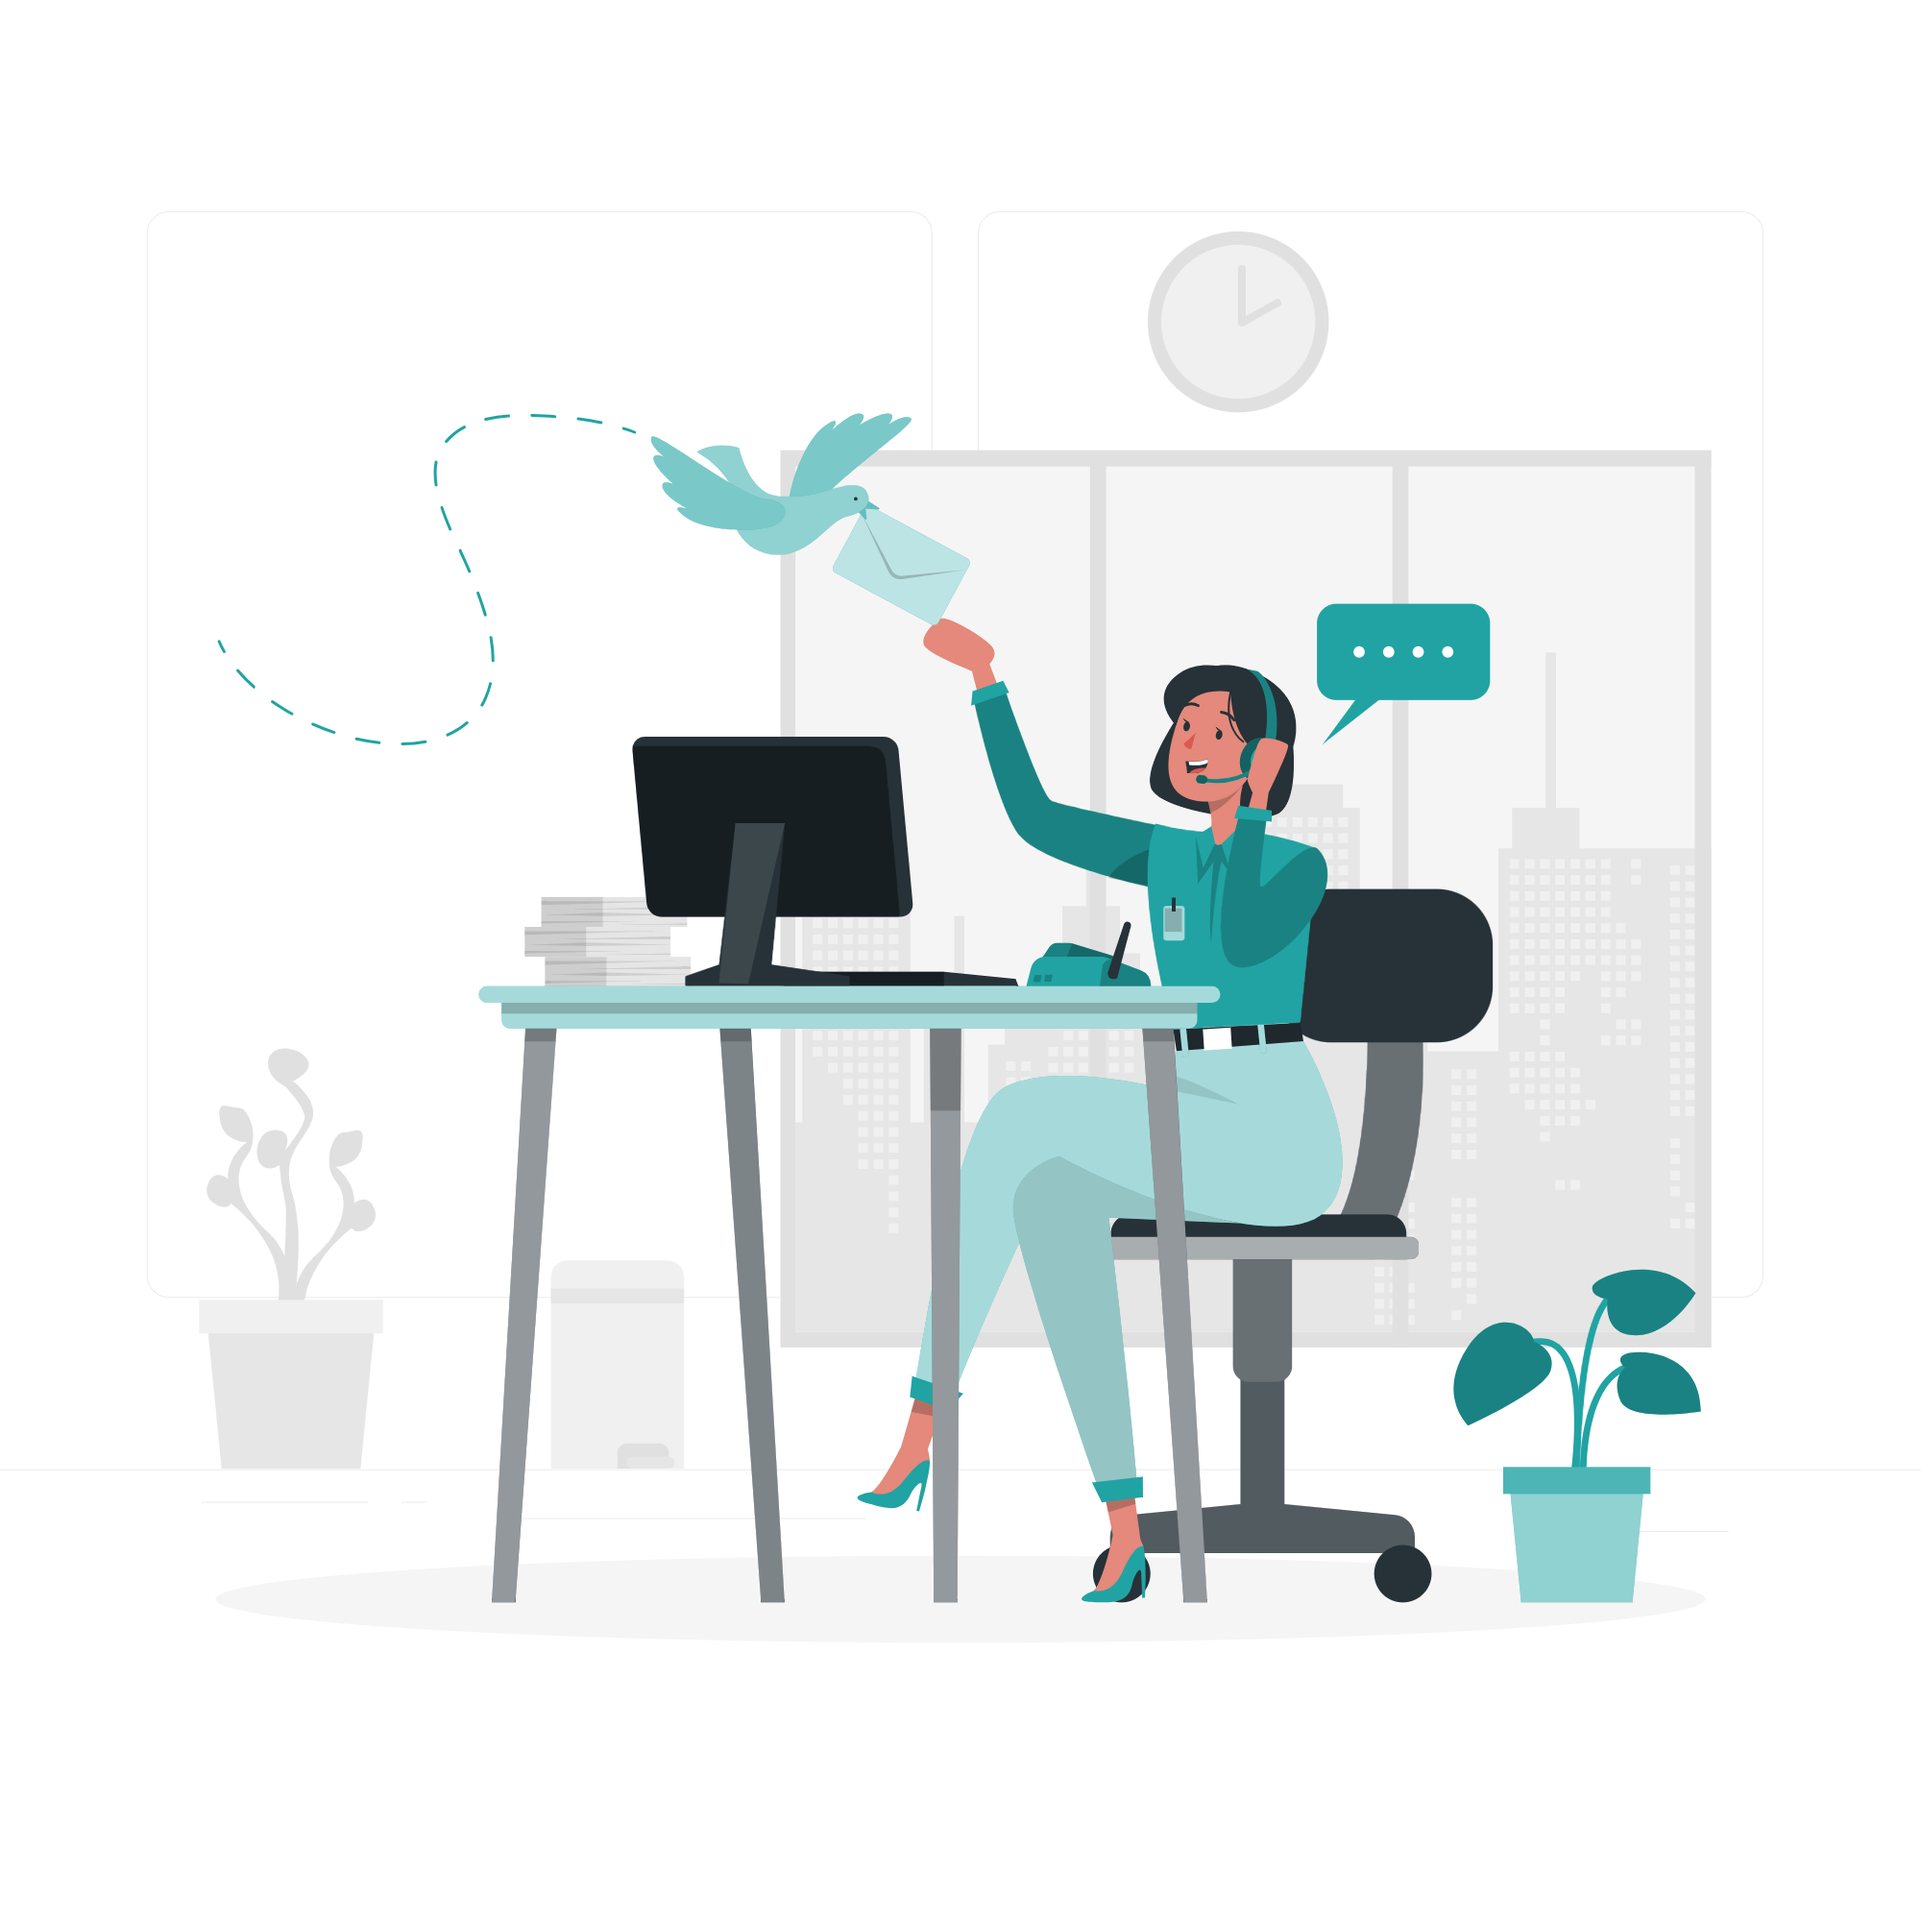
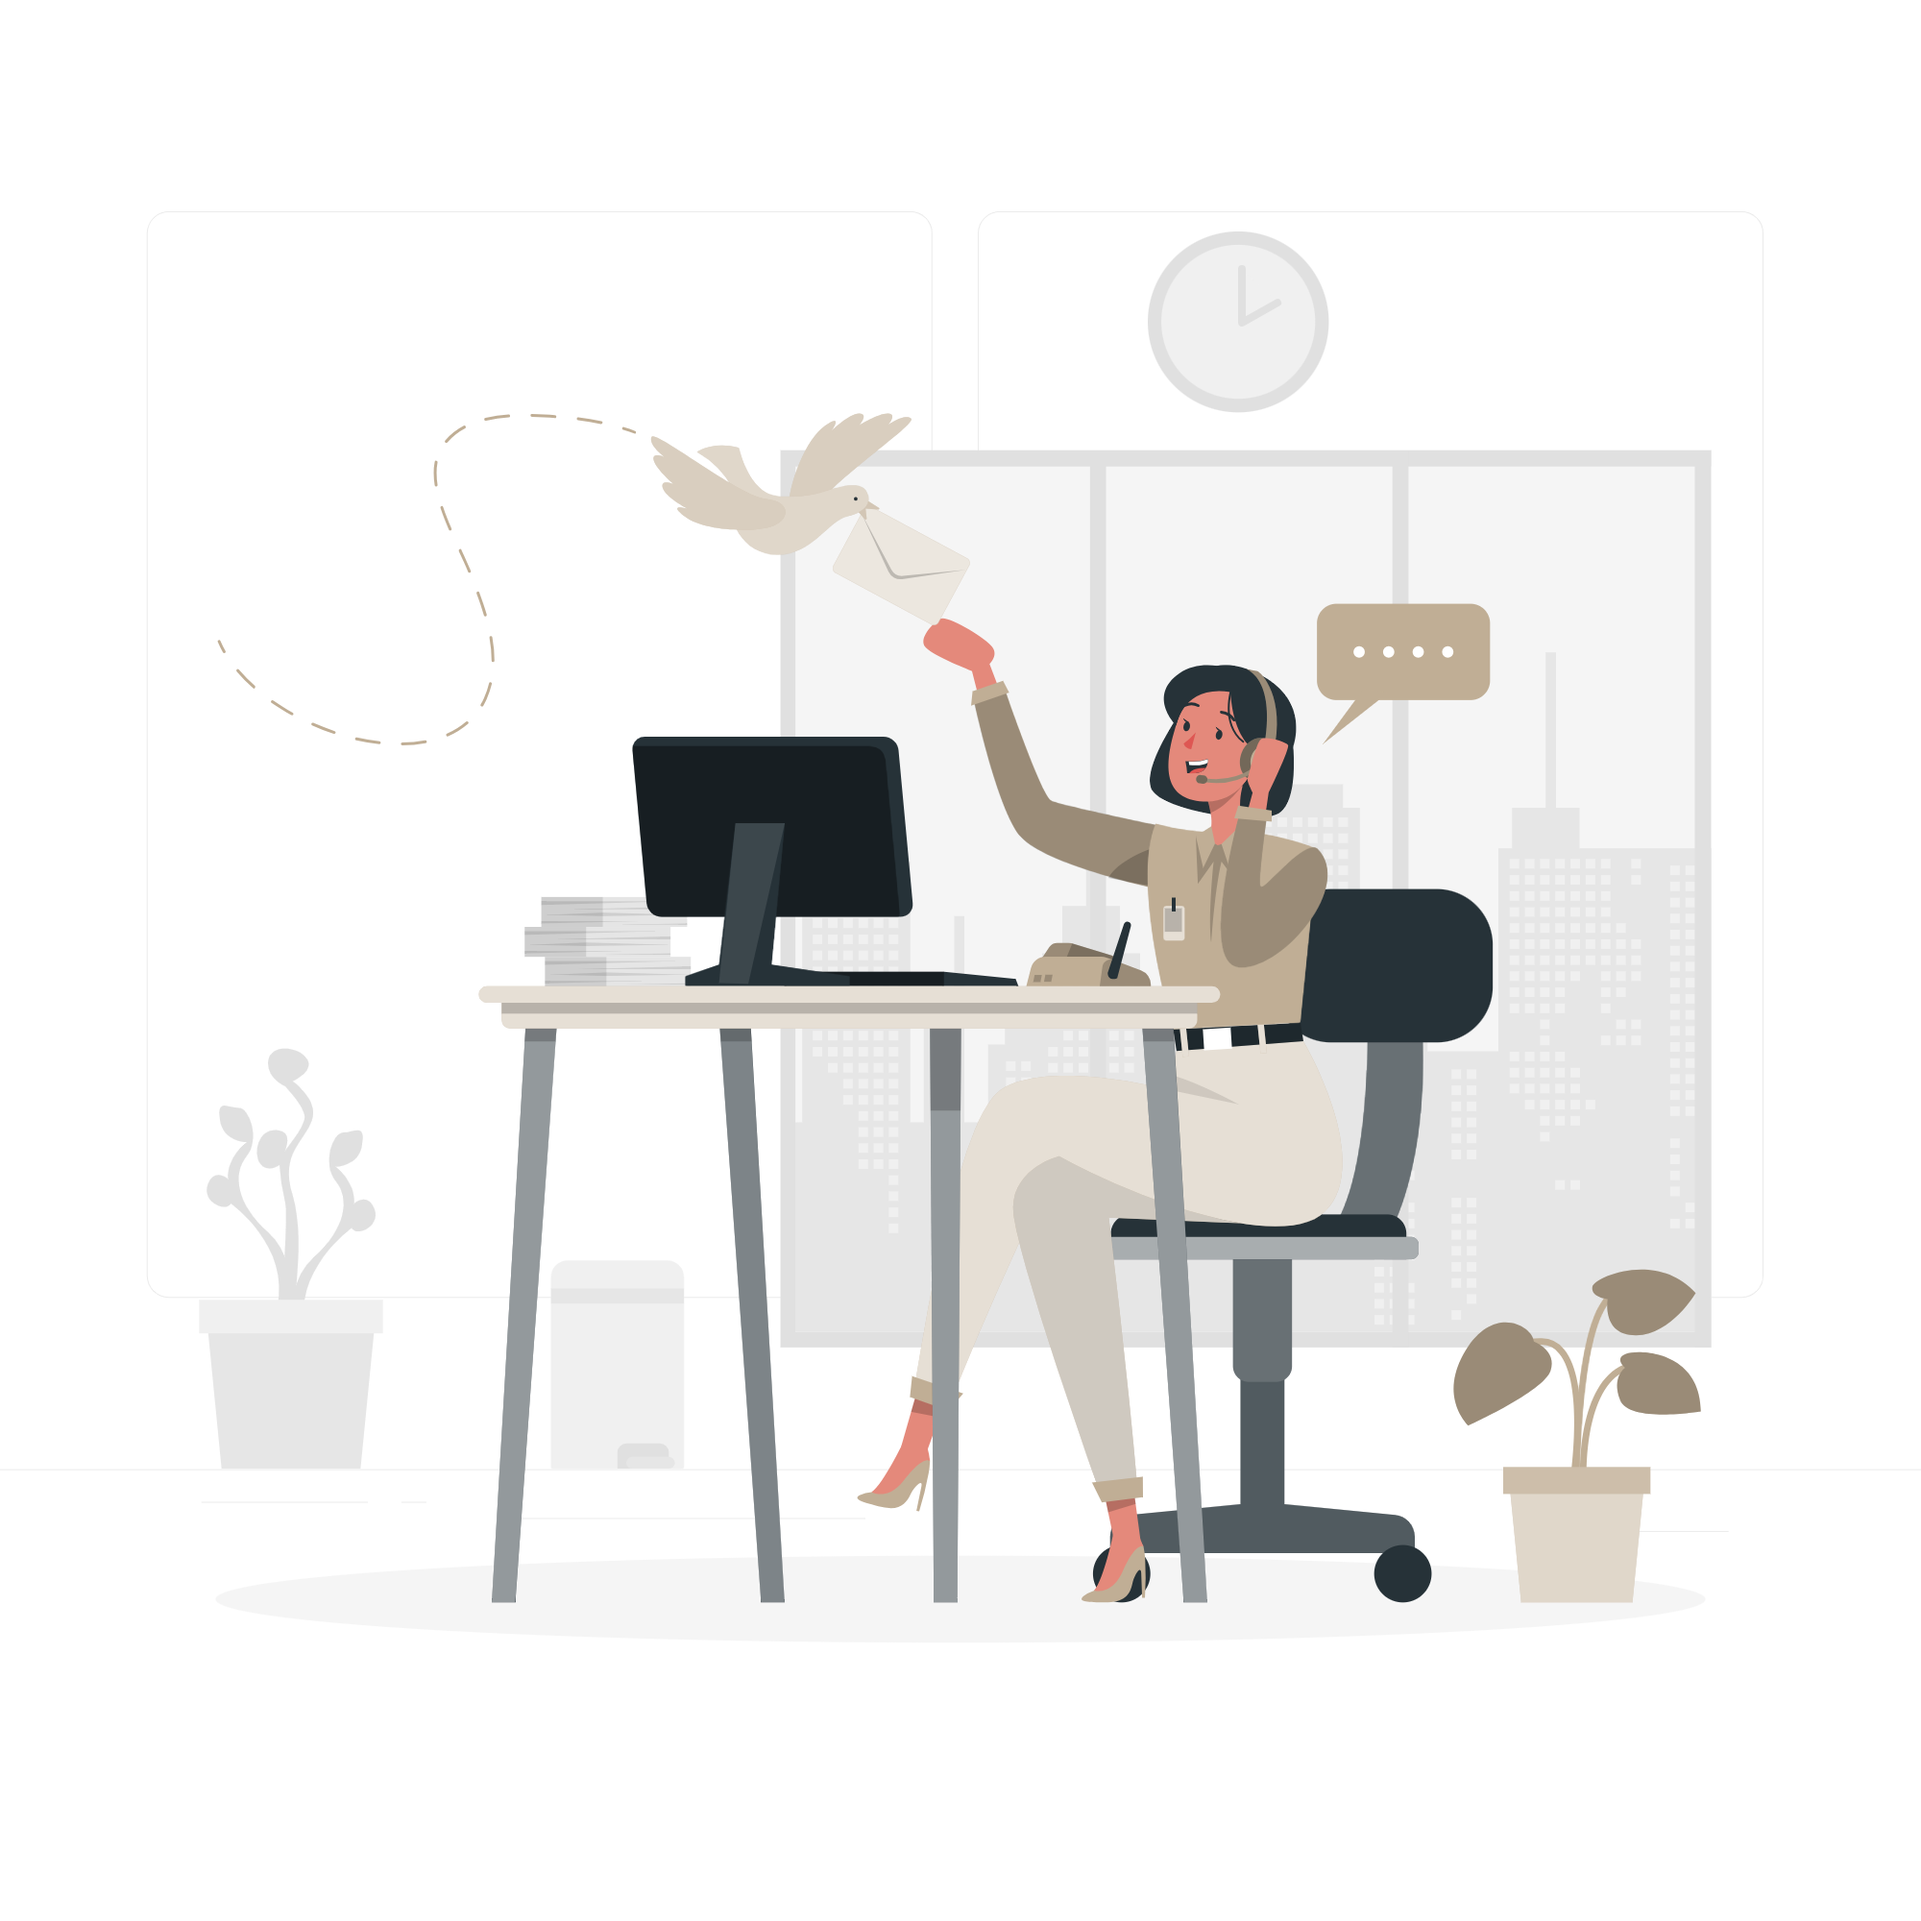
feat: interface update.

Changed region(s): [[0.248, 0.31, 0.775, 0.837], [0.744, 0.651, 0.899, 0.837], [0.341, 0.217, 0.527, 0.341]]

diff --git a/projects/landing_pages/soap/src/pages/Main/main.css b/projects/landing_pages/soap/src/pages/Main/main.css
@@ -5,9 +5,9 @@
 
 header {
     width: 100%;
-    padding: var(--p-16) 5%;
-    /* position: absolute; */
-    background-color: var(--dark);
+    padding: var(--p-32) 5%;
+    position: absolute;
+    background-color: transparent;
 }
 
 header nav {
@@ -35,6 +35,11 @@ main {
     width: 100%;
 }
 
+.container-left {
+    background-color: orange;
+    width: 50%;
+}
+
 .container-texts-main {
     display: flex;
     justify-content: center;
@@ -46,6 +51,7 @@ main {
 
 main h1 {
     color: var(--light);
+    width: 33.3%;
     font-size: calc(var(--fs-large) * 2);
     text-align: center;
 }
@@ -53,16 +59,13 @@ main h1 {
 main p {
     color: var(--secondary-color);
     text-align: center;
+    width: 33.3%;
 }
 
-.container-left {
-    width: 50%;
-}
-
-.container-left img {
+main img {
     position: absolute;
     z-index: -999;
-    width: inherit;
+    width: 100%;
     height: var(--mainImg);
     object-fit: cover;
     filter: brightness(60%);
@@ -91,11 +94,21 @@ main p {
     border: 1px solid var(--light);
 }
 
-/* form */
-  .section-contact {
+
+/* contact section */
+.section-contact {
+    width: 100%;
+    max-width: 100%;
+    display: flex;
+    justify-content: space-between;
+    align-items: center;
+    /* background: linear-gradient(to right, var(--purple), var(--primary-color)); */
+    background-color: var(--primary-color);
+}
+
+.section-contact-img, .section-contact-form {
     width: 50%;
-    background-color: var(--dark);
-  }
+}
 
   .section-contact-img {
     display: flex;
@@ -103,7 +116,7 @@ main p {
   }
 
   .section-contact-img img {
-    width: 100%;
+    width: 80%;
   }
 
   .section-contact-form {
@@ -114,6 +127,8 @@ main p {
     font-size: calc(var(--fs-large) * 2);
     margin-bottom: var(--m-16);
     text-transform: capitalize;
+    color: var(--secondary-color);
+    color: var(--light);
   }
 
   .container-input {
@@ -128,8 +143,7 @@ main p {
     padding: var(--p-16);
     border-radius: var(--input-radius);
     border: none;
-    background-color: transparent;
-    border: 1px solid var(--light);
+    background-color: var(--input-color);
     color: var(--light);
   }
 
@@ -140,8 +154,7 @@ main p {
     border-radius: var(--input-radius);
     padding: var(--p-16);
     margin-bottom: var(--m-16);
-    background-color: transparent;
-    border: 1px solid var(--light);
+    background-color: var(--input-color);
     color: var(--light);
   }
 
@@ -154,52 +167,33 @@ main p {
     padding: calc(var(--p-8) + 4px) var(--p-32);
     border-radius: var(--radius);
     border: none;
-    background-color: var(--primary-color);
-    color: var(--light);
+    background-color: var(--light);
     font-weight: 500;
-}
-
-
-/* test */
-aside {
-    border: 12px solid gold;
-    float: right;
-    display: flex;
-    width: 50%;
-    height: 1112px;
-    flex-direction: column;
-    justify-content: start;
-}
-
-aside h2 {
-    
-}
-
-.gradient {
-    background-color: var(--dark);
 }
 
 /* experience */
 .section-experience {
+    background-color: var(--light);
     padding: var(--p-section) 15%;
     display: flex;
     justify-content: center;
     align-items: center;
     flex-direction: column;
-    color: var(--light);
+    color: var(--primary-color);
     width: 100%;
-    /* background-color: var(--light); */
 }
 
 .section-experience h2 {
     font-size: var(--fs-large);
     text-align: center;
     margin-bottom: var(--m-8);
+    color: var(--primary-color);
 }
 
 .section-experience > p {
     margin-bottom: var(--m-16);
     text-align: center;
+    color: var(--secondary-color);
 }
 
 .container-elements-experience {
@@ -222,17 +216,19 @@ aside h2 {
 .container-icon-experience p {
     font-size: var(--fs-medium);
     text-transform: capitalize;
+    color: var(--primary-color);
 }
+
 
 /* product */
 .section-product {
     width: 100%;
-    /* background-color: var(--light); */
     padding: var(--p-section) 0;
     display: flex;
     justify-content: center;
     align-items: center;
     flex-direction: column;
+    background-color: var(--primary-color);
 }
 
 .section-product h2 {
@@ -243,7 +239,7 @@ aside h2 {
 
 .section-product > p {
     margin-bottom: var(--m-32);
-    color: var(--secondary-color)
+    color: var(--secondary-color);
 }
 
 .container-products {
@@ -281,7 +277,7 @@ aside h2 {
     width: 100%;
     border-radius: 0;
     border: 0;
-    background-color: var(--light);
-    color: var(--primary-color);
+    background-color: var(--secondary-color);
+    color: var(--light);
     padding: calc(var(--p-8) + 4px) 0;
 }

diff --git a/projects/landing_pages/soap/src/pages/Main/index.jsx b/projects/landing_pages/soap/src/pages/Main/index.jsx
@@ -23,13 +23,7 @@ export default function Main(){
 
 {/* main */}
         <main className='main'>
-        <aside className='aside'>
-                <h2>Lorem ipsum dolor, sit amet consectetur adipisicing elit. In commodi dolorem harum!</h2>
-                <p>Lorem ipsum dolor sit amet consectetur adipisicing elit. Blanditiis, perspiciatis amet ratione quisquam cumque adipisci aperiam, doloremque aut earum officia placeat odio saepe!</p>
-                <img src={ContactUs} alt="" />
-            </aside>
-            {/* section left */}
-            <section className="container-left">
+       
             <img src={mainImg} alt="" />
             <div className="container-texts-main">
             <h1>Lorem ipsum, dolor sit amet.</h1>
@@ -40,10 +34,13 @@ export default function Main(){
             <button className="subscribe-now">subscribe now</button>
             </div>
             </div>
-            </section>
+        </main>
 
-            {/* contact */}
-            <section className="section-contact">
+               {/* contact */}
+       <section className="section-contact">
+                <div className="section-contact-img">
+                    <img src={ContactUs} className='contactUs-img' alt="" />
+                </div>
 
                 <div className="section-contact-form">
                     <h1 className='title-section-contact-form'>get in touch</h1>
@@ -63,9 +60,8 @@ export default function Main(){
                     </form>
                 </div>
             </section>
-        </main>
 
-<div className="gradient">
+
         {/* experience */}
         <section className="section-experience">
             <h2>experience the aromas</h2>
@@ -125,7 +121,6 @@ export default function Main(){
 
             </div>
         </section>
-        </div>
 
         </div> // container
         
